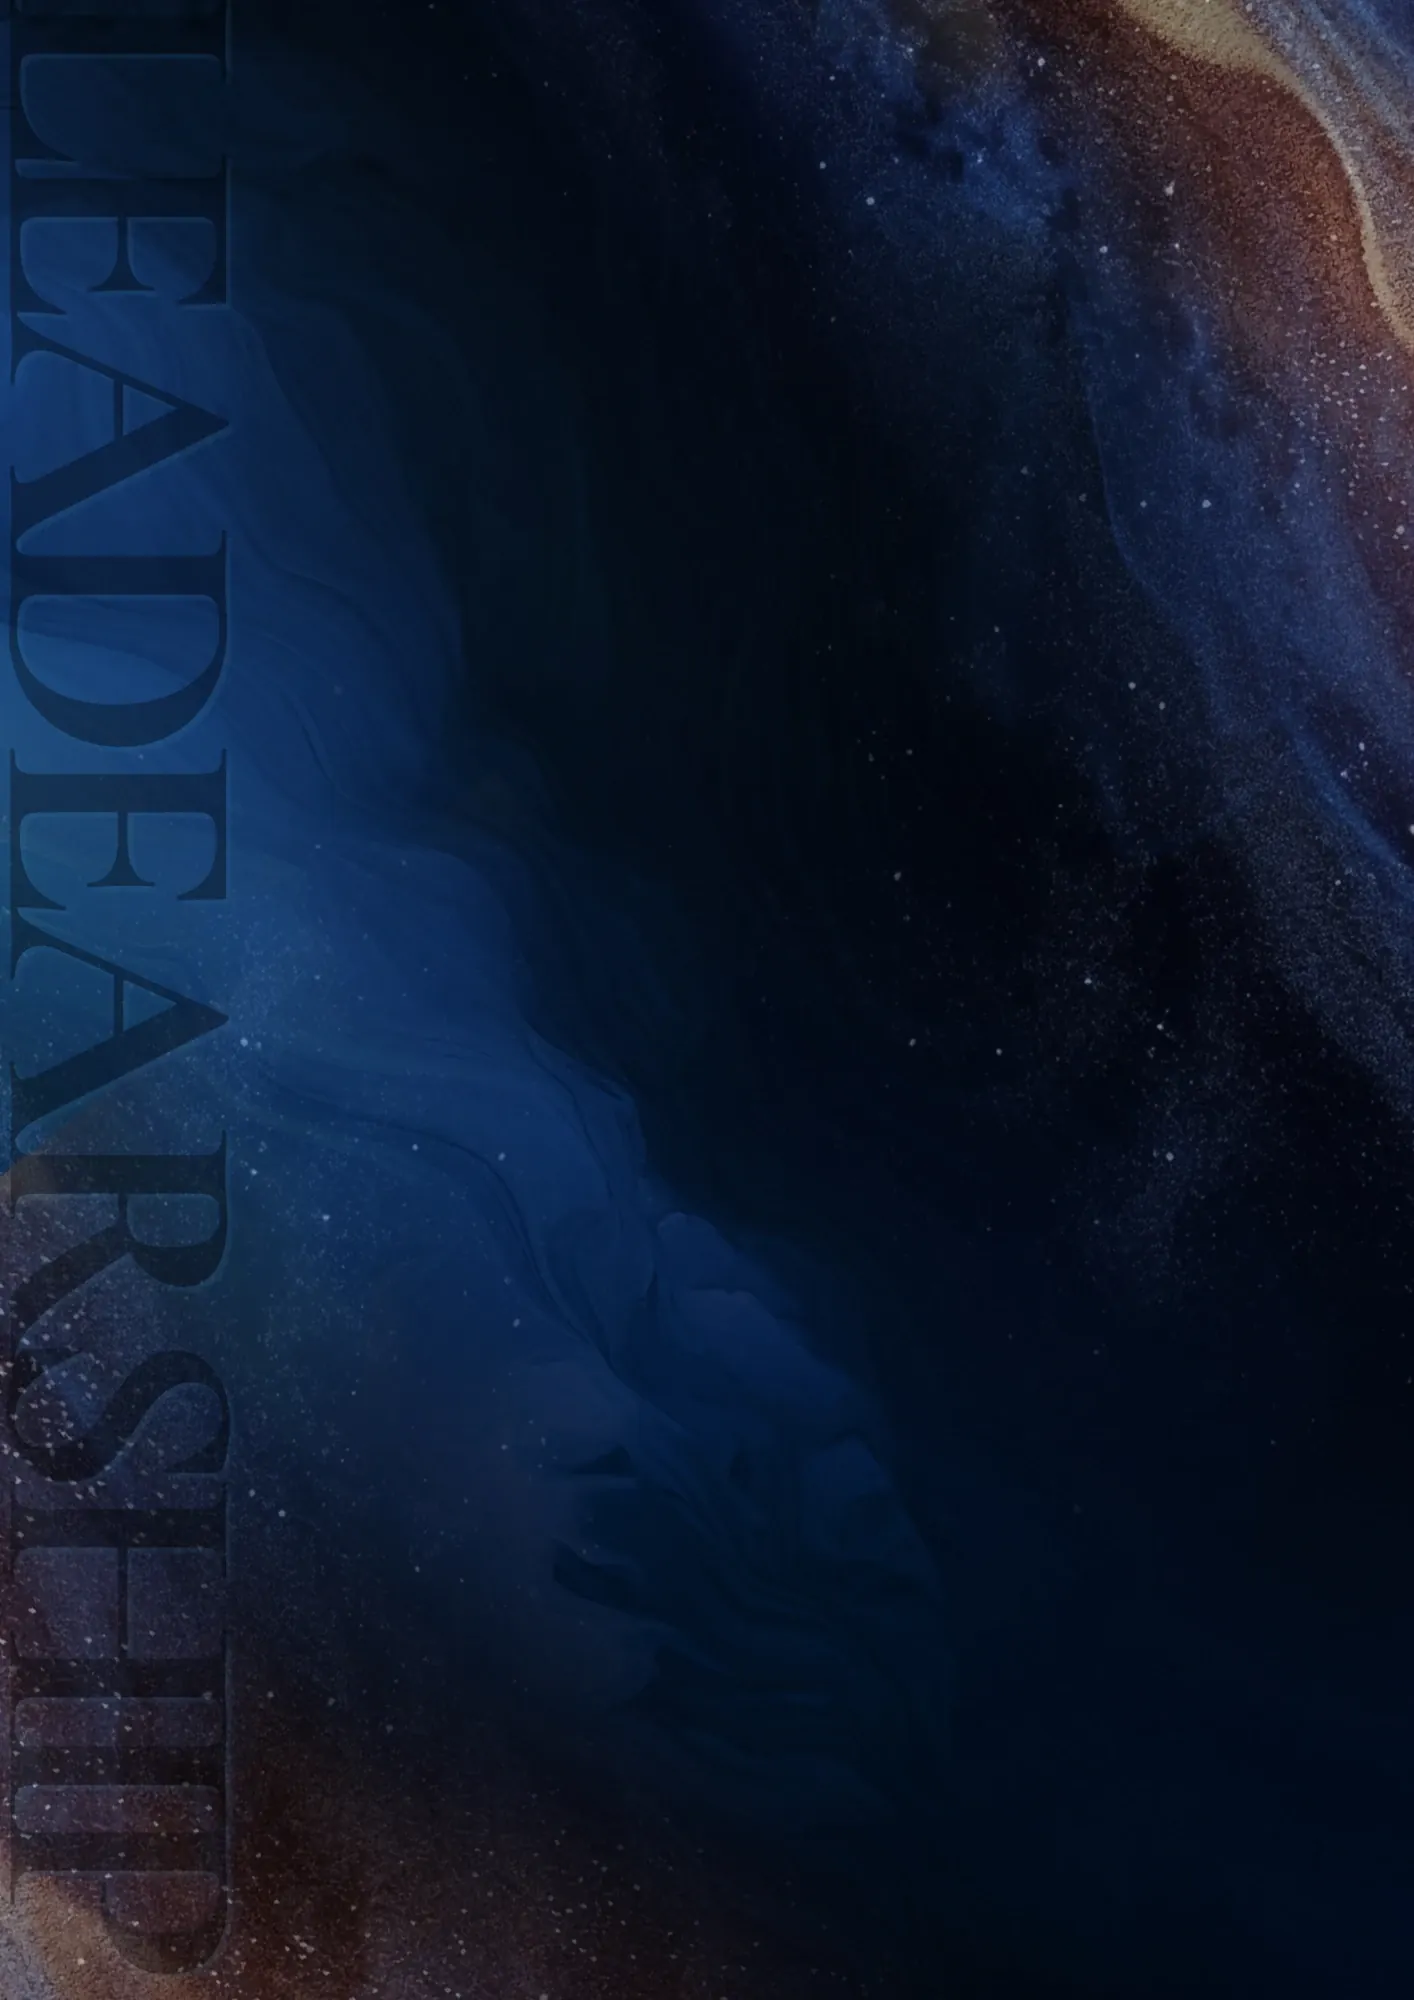
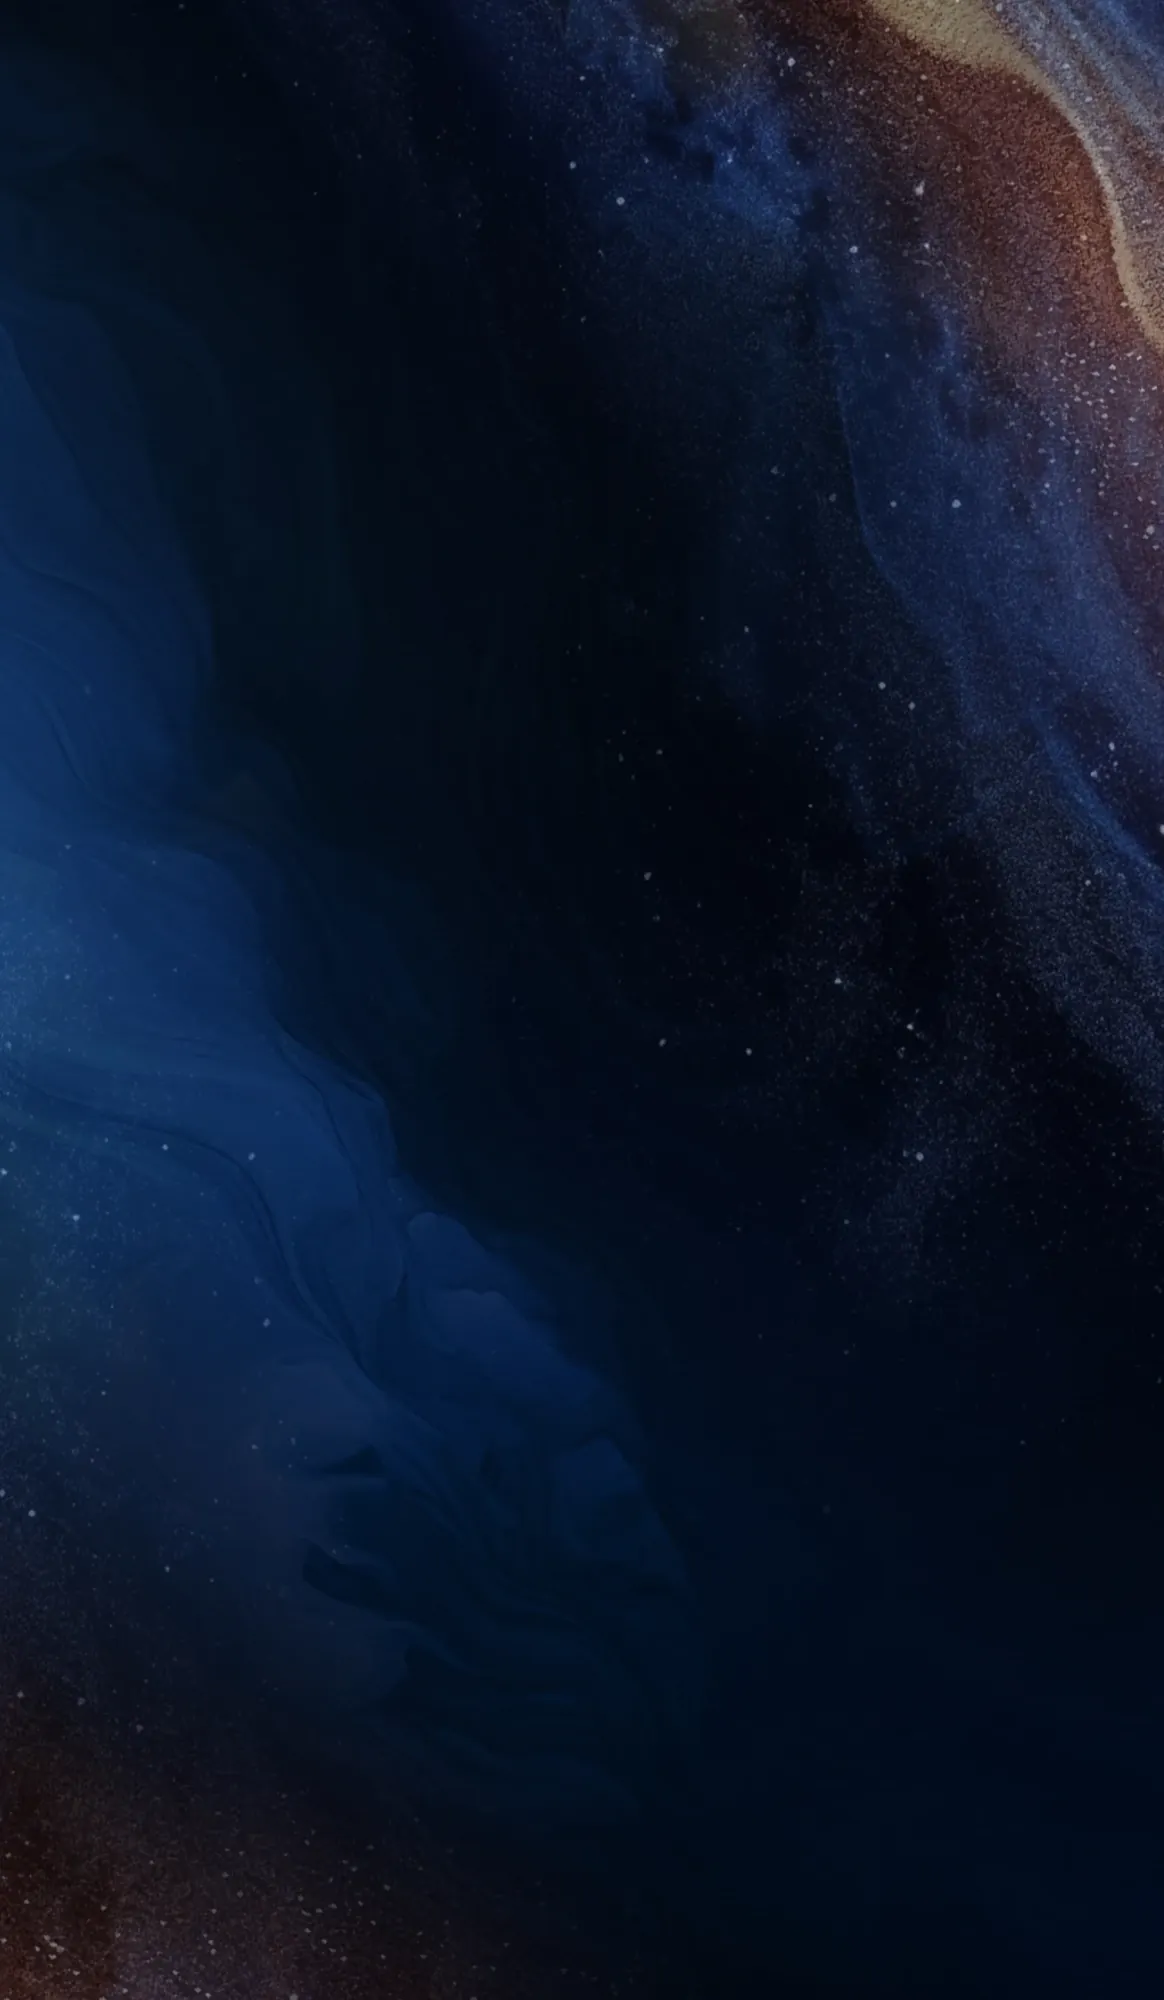
拿掉金色山峰与背景左缘 LEADERSHIP 字样（背景裁去左侧 250px）
Claude-Session: https://claude.ai/code/session_01Y8hZMz9Tu13R4y5T6sNgyn

diff --git a/index.html b/index.html
@@ -21,7 +21,6 @@ body{background:var(--navy) url(assets/bg.webp) center top/cover fixed;color:var
 /* ── 邀请码门 ── */
 #gate{position:relative;min-height:100vh;display:flex;align-items:center;justify-content:center;padding:24px 16px;overflow:hidden}
 #gate::before{content:"";position:absolute;inset:0;background:url(assets/fx.webp) center/cover;opacity:.7;pointer-events:none}
-#gate .ridge{position:absolute;right:-120px;bottom:-40px;width:min(720px,110vw);opacity:.95;filter:drop-shadow(0 0 22px rgba(255,200,120,.3));-webkit-mask-image:linear-gradient(90deg,transparent 10%,#000 45%);mask-image:linear-gradient(90deg,transparent 10%,#000 45%);pointer-events:none}
 #gate form{position:relative;z-index:1;width:100%;max-width:360px;text-align:center}
 .kicker{font-family:'Cinzel',serif;font-size:13px;letter-spacing:.42em;color:var(--gold)}
 #gate h1{white-space:nowrap;font-family:var(--serif);font-weight:900;font-size:clamp(34px,9vw,46px);letter-spacing:.12em;line-height:1.3;margin:14px 0 10px}
@@ -36,8 +35,7 @@ body{background:var(--navy) url(assets/bg.webp) center top/cover fixed;color:var
 #doc{max-width:880px;margin:0 auto;padding:0 0 0;box-shadow:0 0 60px rgba(0,0,0,.5)}
 .head{position:relative;overflow:hidden;background:var(--navy) url(assets/bg.webp) center 30%/cover;padding:64px 64px 52px;min-height:340px}
 .head::after{content:"";position:absolute;inset:0;background:linear-gradient(90deg,rgba(6,11,29,.65),rgba(6,11,29,0) 75%);pointer-events:none}
-.head .ridge{position:absolute;right:-170px;top:0;width:620px;filter:drop-shadow(0 0 20px rgba(255,200,120,.3));-webkit-mask-image:linear-gradient(90deg,transparent 18%,#000 48%);mask-image:linear-gradient(90deg,transparent 18%,#000 48%)}
-.head>*:not(.ridge){position:relative;z-index:1}
+.head>*{position:relative;z-index:1}
 .head h1{font-weight:900;font-size:clamp(38px,7.4vw,64px);line-height:1.2;letter-spacing:.14em;margin:18px 0 18px}
 .head .sub{font-family:var(--sans);font-weight:500;font-size:16px;letter-spacing:.14em;color:var(--warm)}
 .head .by{font-family:var(--sans);font-size:14px;letter-spacing:.2em;color:var(--gold);margin-top:22px}
@@ -76,7 +74,6 @@ tr:last-child td{border-bottom:0}
 /* 手机：比较表转卡片，自家在每张卡最上面 */
 @media (max-width:720px){
   .head{padding:44px 20px 36px;min-height:300px}
-  .head .ridge{width:420px;right:-190px;opacity:.85}
   .head .sub{font-size:14px;letter-spacing:.08em}
   .body{padding:40px 20px 48px;font-size:16.5px}
   .body h2{font-size:20px;margin-top:46px}
@@ -98,7 +95,7 @@ tr:last-child td{border-bottom:0}
 </head>
 <body>
 <div id="gate">
-  <img class="ridge" src="assets/ridge.webp" alt="">
+  
   <form id="f">
     <div class="kicker">HARNESS · CORE</div>
     <h1 class="g">工作线记忆框架</h1>
@@ -110,7 +107,7 @@ tr:last-child td{border-bottom:0}
 </div>
 <main id="doc" hidden></main>
 <script>
[2 lines of base64/hex data omitted]
 const b=Uint8Array.from(atob(P),c=>c.charCodeAt(0));
 async function unlock(code){
   const e=new TextEncoder(),k0=await crypto.subtle.importKey("raw",e.encode(code),"PBKDF2",false,["deriveKey"]);

diff --git a/template.html b/template.html
@@ -21,7 +21,6 @@ body{background:var(--navy) url(assets/bg.webp) center top/cover fixed;color:var
 /* ── 邀请码门 ── */
 #gate{position:relative;min-height:100vh;display:flex;align-items:center;justify-content:center;padding:24px 16px;overflow:hidden}
 #gate::before{content:"";position:absolute;inset:0;background:url(assets/fx.webp) center/cover;opacity:.7;pointer-events:none}
-#gate .ridge{position:absolute;right:-120px;bottom:-40px;width:min(720px,110vw);opacity:.95;filter:drop-shadow(0 0 22px rgba(255,200,120,.3));-webkit-mask-image:linear-gradient(90deg,transparent 10%,#000 45%);mask-image:linear-gradient(90deg,transparent 10%,#000 45%);pointer-events:none}
 #gate form{position:relative;z-index:1;width:100%;max-width:360px;text-align:center}
 .kicker{font-family:'Cinzel',serif;font-size:13px;letter-spacing:.42em;color:var(--gold)}
 #gate h1{white-space:nowrap;font-family:var(--serif);font-weight:900;font-size:clamp(34px,9vw,46px);letter-spacing:.12em;line-height:1.3;margin:14px 0 10px}
@@ -36,8 +35,7 @@ body{background:var(--navy) url(assets/bg.webp) center top/cover fixed;color:var
 #doc{max-width:880px;margin:0 auto;padding:0 0 0;box-shadow:0 0 60px rgba(0,0,0,.5)}
 .head{position:relative;overflow:hidden;background:var(--navy) url(assets/bg.webp) center 30%/cover;padding:64px 64px 52px;min-height:340px}
 .head::after{content:"";position:absolute;inset:0;background:linear-gradient(90deg,rgba(6,11,29,.65),rgba(6,11,29,0) 75%);pointer-events:none}
-.head .ridge{position:absolute;right:-170px;top:0;width:620px;filter:drop-shadow(0 0 20px rgba(255,200,120,.3));-webkit-mask-image:linear-gradient(90deg,transparent 18%,#000 48%);mask-image:linear-gradient(90deg,transparent 18%,#000 48%)}
-.head>*:not(.ridge){position:relative;z-index:1}
+.head>*{position:relative;z-index:1}
 .head h1{font-weight:900;font-size:clamp(38px,7.4vw,64px);line-height:1.2;letter-spacing:.14em;margin:18px 0 18px}
 .head .sub{font-family:var(--sans);font-weight:500;font-size:16px;letter-spacing:.14em;color:var(--warm)}
 .head .by{font-family:var(--sans);font-size:14px;letter-spacing:.2em;color:var(--gold);margin-top:22px}
@@ -76,7 +74,6 @@ tr:last-child td{border-bottom:0}
 /* 手机：比较表转卡片，自家在每张卡最上面 */
 @media (max-width:720px){
   .head{padding:44px 20px 36px;min-height:300px}
-  .head .ridge{width:420px;right:-190px;opacity:.85}
   .head .sub{font-size:14px;letter-spacing:.08em}
   .body{padding:40px 20px 48px;font-size:16.5px}
   .body h2{font-size:20px;margin-top:46px}
@@ -98,7 +95,7 @@ tr:last-child td{border-bottom:0}
 </head>
 <body>
 <div id="gate">
-  <img class="ridge" src="assets/ridge.webp" alt="">
+  
   <form id="f">
     <div class="kicker">HARNESS · CORE</div>
     <h1 class="g">工作线记忆框架</h1>

diff --git a/build.py b/build.py
@@ -19,7 +19,7 @@ def key(code: str, salt: bytes) -> bytes:
 def shape(body: str) -> str:
     """h1＋副标＋署名 → 星空信头；表格每格加 data-label（手机上转成卡片用）。"""
     m = re.match(r"\s*<h1>(.*?)</h1>\s*<p>(.*?)</p>", body, re.S)
-    head = (f'<header class="head"><img class="ridge" src="assets/ridge.webp" alt="">'
+    head = (f'<header class="head">'
             f'<div class="kicker">HARNESS · CORE</div><h1 class="g">{m[1]}</h1>'
             f'<p class="sub">{m[2]}</p><p class="by">林子策 主理　·　飞鑫 撰文</p></header>'
             f'<div class="gold-rule"></div><article class="body">')
